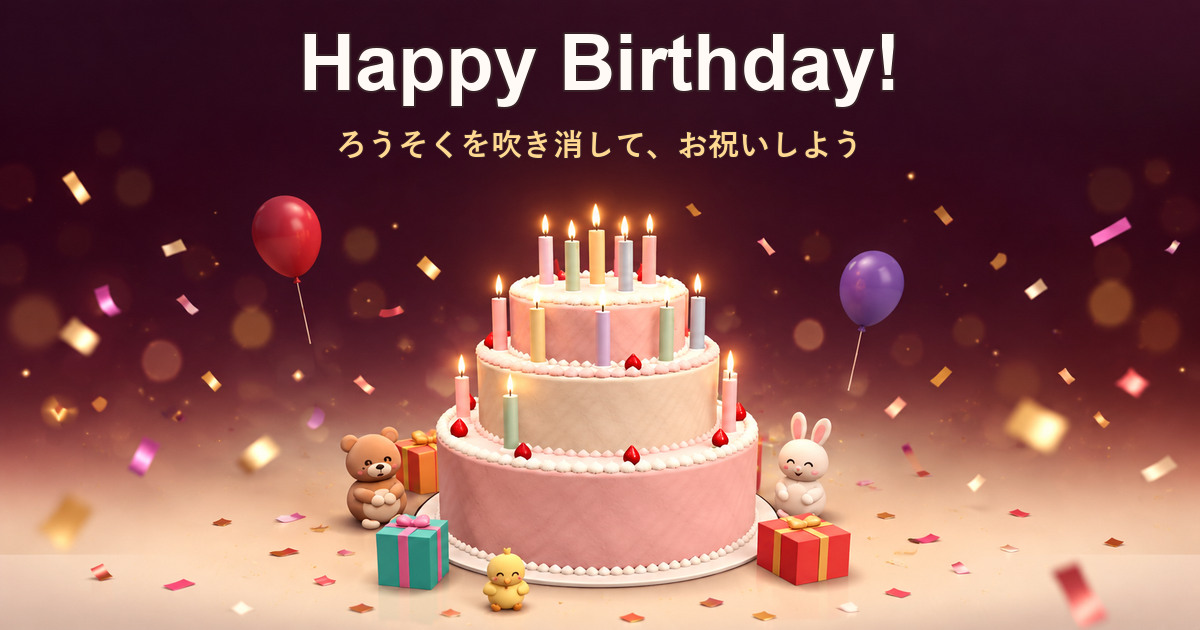
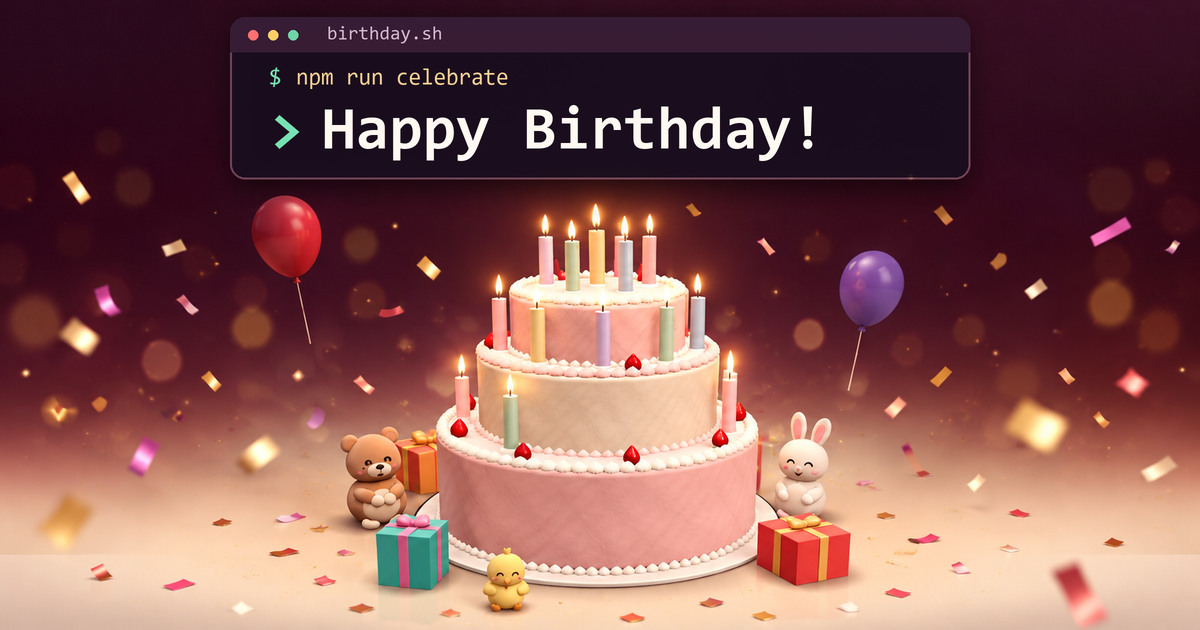
Give social preview a terminal birthday theme

Changed region(s): [[0.185, 0.0302, 0.8325, 0.3016]]

diff --git a/index.html b/index.html
@@ -6,11 +6,9 @@
     <meta name="viewport" content="width=device-width, initial-scale=1.0, maximum-scale=1.0, user-scalable=no" />
     <meta name="theme-color" content="#0f0c29" />
     <title>Happy Birthday 🎁</title>
-    <meta name="description" content="ろうそくを吹き消して、お祝いしよう。あなたのためのバースデーケーキが届きました。" />
     <meta property="og:type" content="website" />
     <meta property="og:site_name" content="Happy Birthday" />
     <meta property="og:title" content="Happy Birthday 🎂" />
-    <meta property="og:description" content="ろうそくを吹き消して、お祝いしよう。あなたのためのバースデーケーキが届きました。" />
     <meta property="og:url" content="https://rararapi.github.io/happybirthday/" />
     <meta property="og:image" content="https://rararapi.github.io/happybirthday/og.jpg" />
     <meta property="og:image:width" content="1200" />
